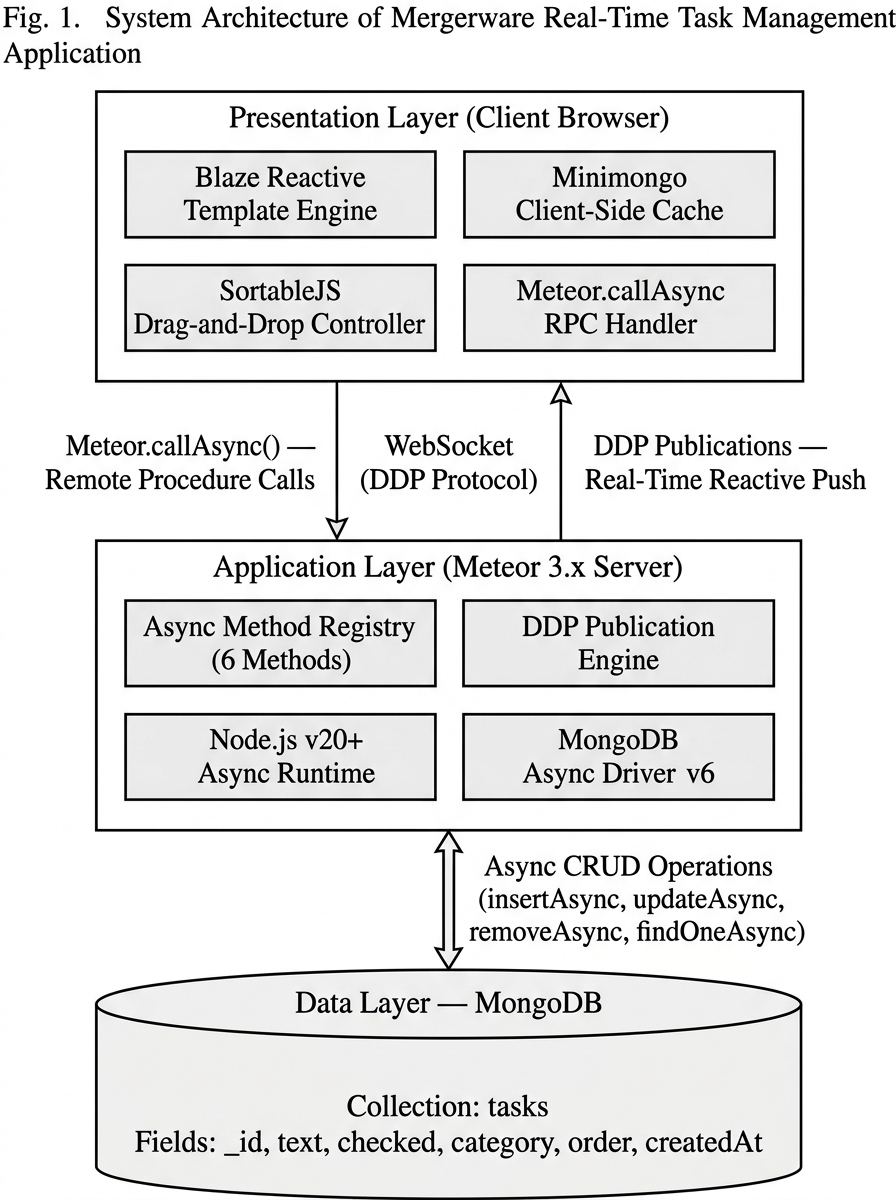
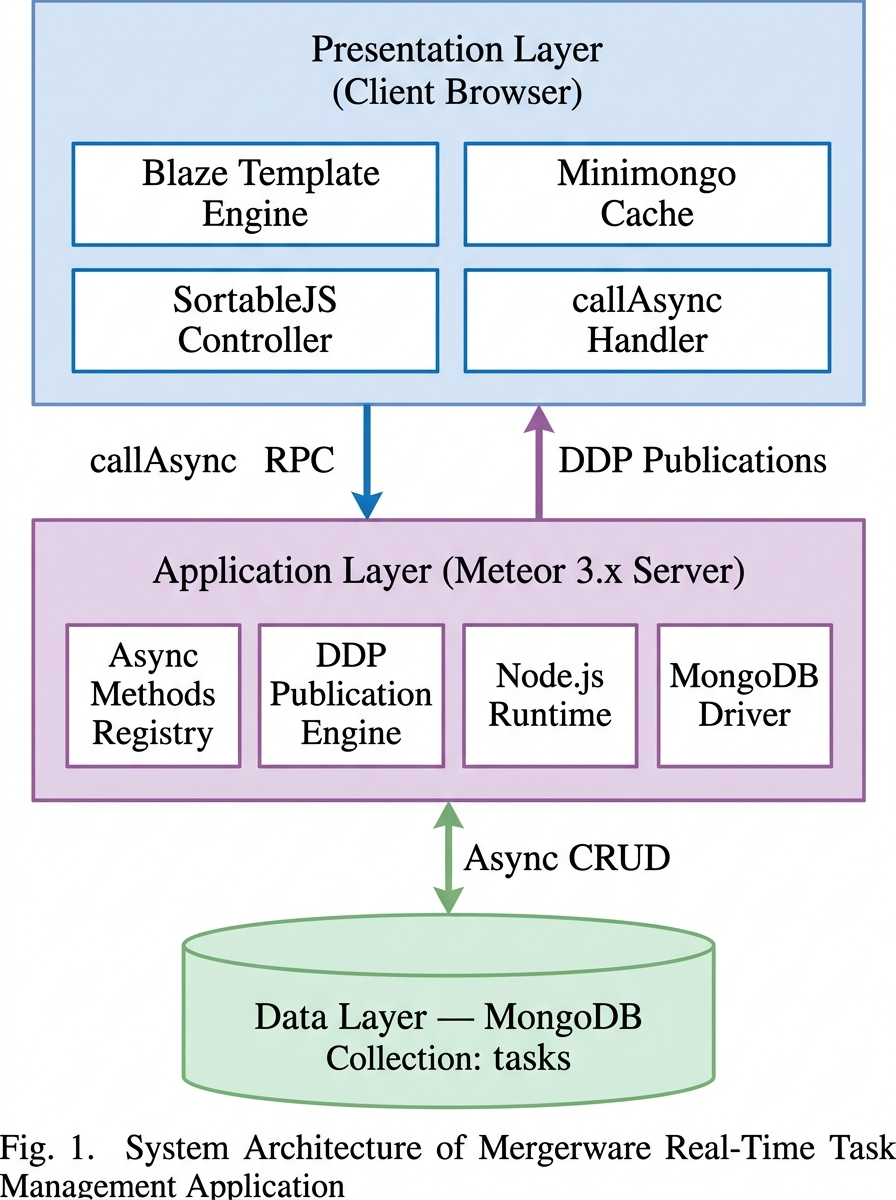
docs: clean up screenshots, keep exactly 2 colored IEEE figures in README

diff --git a/README.md b/README.md
@@ -64,38 +64,15 @@ Modern glassmorphism with backdrop-filter blur, CSS custom properties & transiti
 
 | # | Section |
 |---|---------|
-| 1 | [🎨 Visual Showcase](#-visual-showcase) |
-| 2 | [🌟 Feature Deep-Dive](#-feature-deep-dive) |
-| 3 | [🏗 System Architecture](#%EF%B8%8F-system-architecture) |
-| 4 | [⚙ Build & Compilation Pipeline](#%EF%B8%8F-build--compilation-pipeline) |
-| 5 | [🚀 Meteor 3.x Async Migration](#-meteor-3x-async-migration) |
-| 6 | [🔌 Core Implementation](#-core-implementation) |
-| 7 | [📂 Project Structure](#-project-structure) |
-| 8 | [🧰 Tech Stack](#-tech-stack) |
-| 9 | [🖥 Quick Start](#%EF%B8%8F-quick-start) |
-| 10 | [🛡 Engineering Quality](#%EF%B8%8F-engineering-quality) |
-
----
-
-## 🎨 Visual Showcase
-
-### 🖥 Main Dashboard (Empty State)
-A polished onboarding card with floating emojis and contextual copy guides users to create their first task.
-
-<div align="center">
-<img src="client/assets/empty-state.png" alt="Empty State — Glassmorphic dark UI with sidebar categories and empty state illustration" width="920"/>
-<br/><sub><i>Fig. 1 — Empty state with category sidebar, progress ring, and onboarding prompt</i></sub>
-</div>
-
-<br/>
-
-### 📋 Active Task Board (With Tasks)
-A responsive dual-panel layout with dynamic sidebar filters, live category counts, color-coded task rows, and drag handles.
-
-<div align="center">
-<img src="client/assets/tasks-list.png" alt="Active Tasks — 3 tasks across Work, Personal, and Urgent categories" width="920"/>
-<br/><sub><i>Fig. 2 — Active task board showing category badges, colored borders, and reactive sidebar counts</i></sub>
-</div>
+| 1 | [🏗 System Architecture](#%EF%B8%8F-system-architecture) |
+| 2 | [⚙ Build & Compilation Pipeline](#%EF%B8%8F-build--compilation-pipeline) |
+| 3 | [🌟 Feature Deep-Dive](#-feature-deep-dive) |
+| 4 | [🚀 Meteor 3.x Async Migration](#-meteor-3x-async-migration) |
+| 5 | [🔌 Core Implementation](#-core-implementation) |
+| 6 | [📂 Project Structure](#-project-structure) |
+| 7 | [🧰 Tech Stack](#-tech-stack) |
+| 8 | [🖥 Quick Start](#%EF%B8%8F-quick-start) |
+| 9 | [🛡 Engineering Quality](#%EF%B8%8F-engineering-quality) |
 
 ---
 
